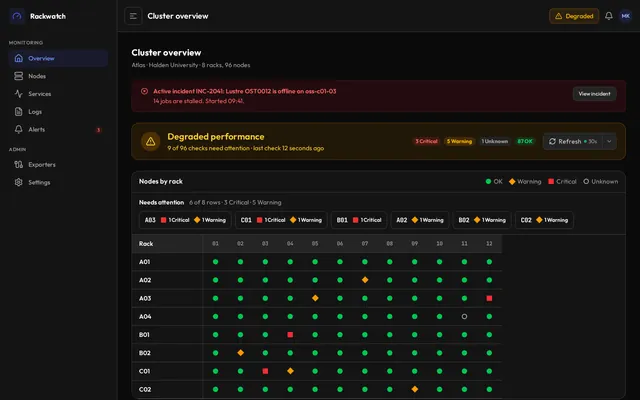
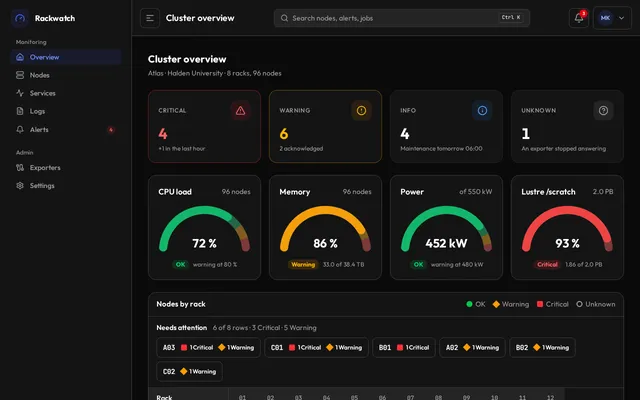
docs(readme): show the new Monitoring screen

diff --git a/README.md b/README.md
@@ -66,7 +66,7 @@ and both reading directions.
         <picture>
           <source media="(prefers-color-scheme: dark)" srcset="docs/images/example-monitoring-dark.webp">
           <source media="(prefers-color-scheme: light)" srcset="docs/images/example-monitoring-light.webp">
-          <img alt="A cluster overview: an incident banner, a health summary and a rack by node status matrix" src="docs/images/example-monitoring-light.webp" width="100%">
+          <img alt="A cluster overview: alert counts by severity, four gauges with their ok, warning and critical zones, and a rack by node status matrix" src="docs/images/example-monitoring-light.webp" width="100%">
         </picture>
         <br>Monitoring
       </a>
